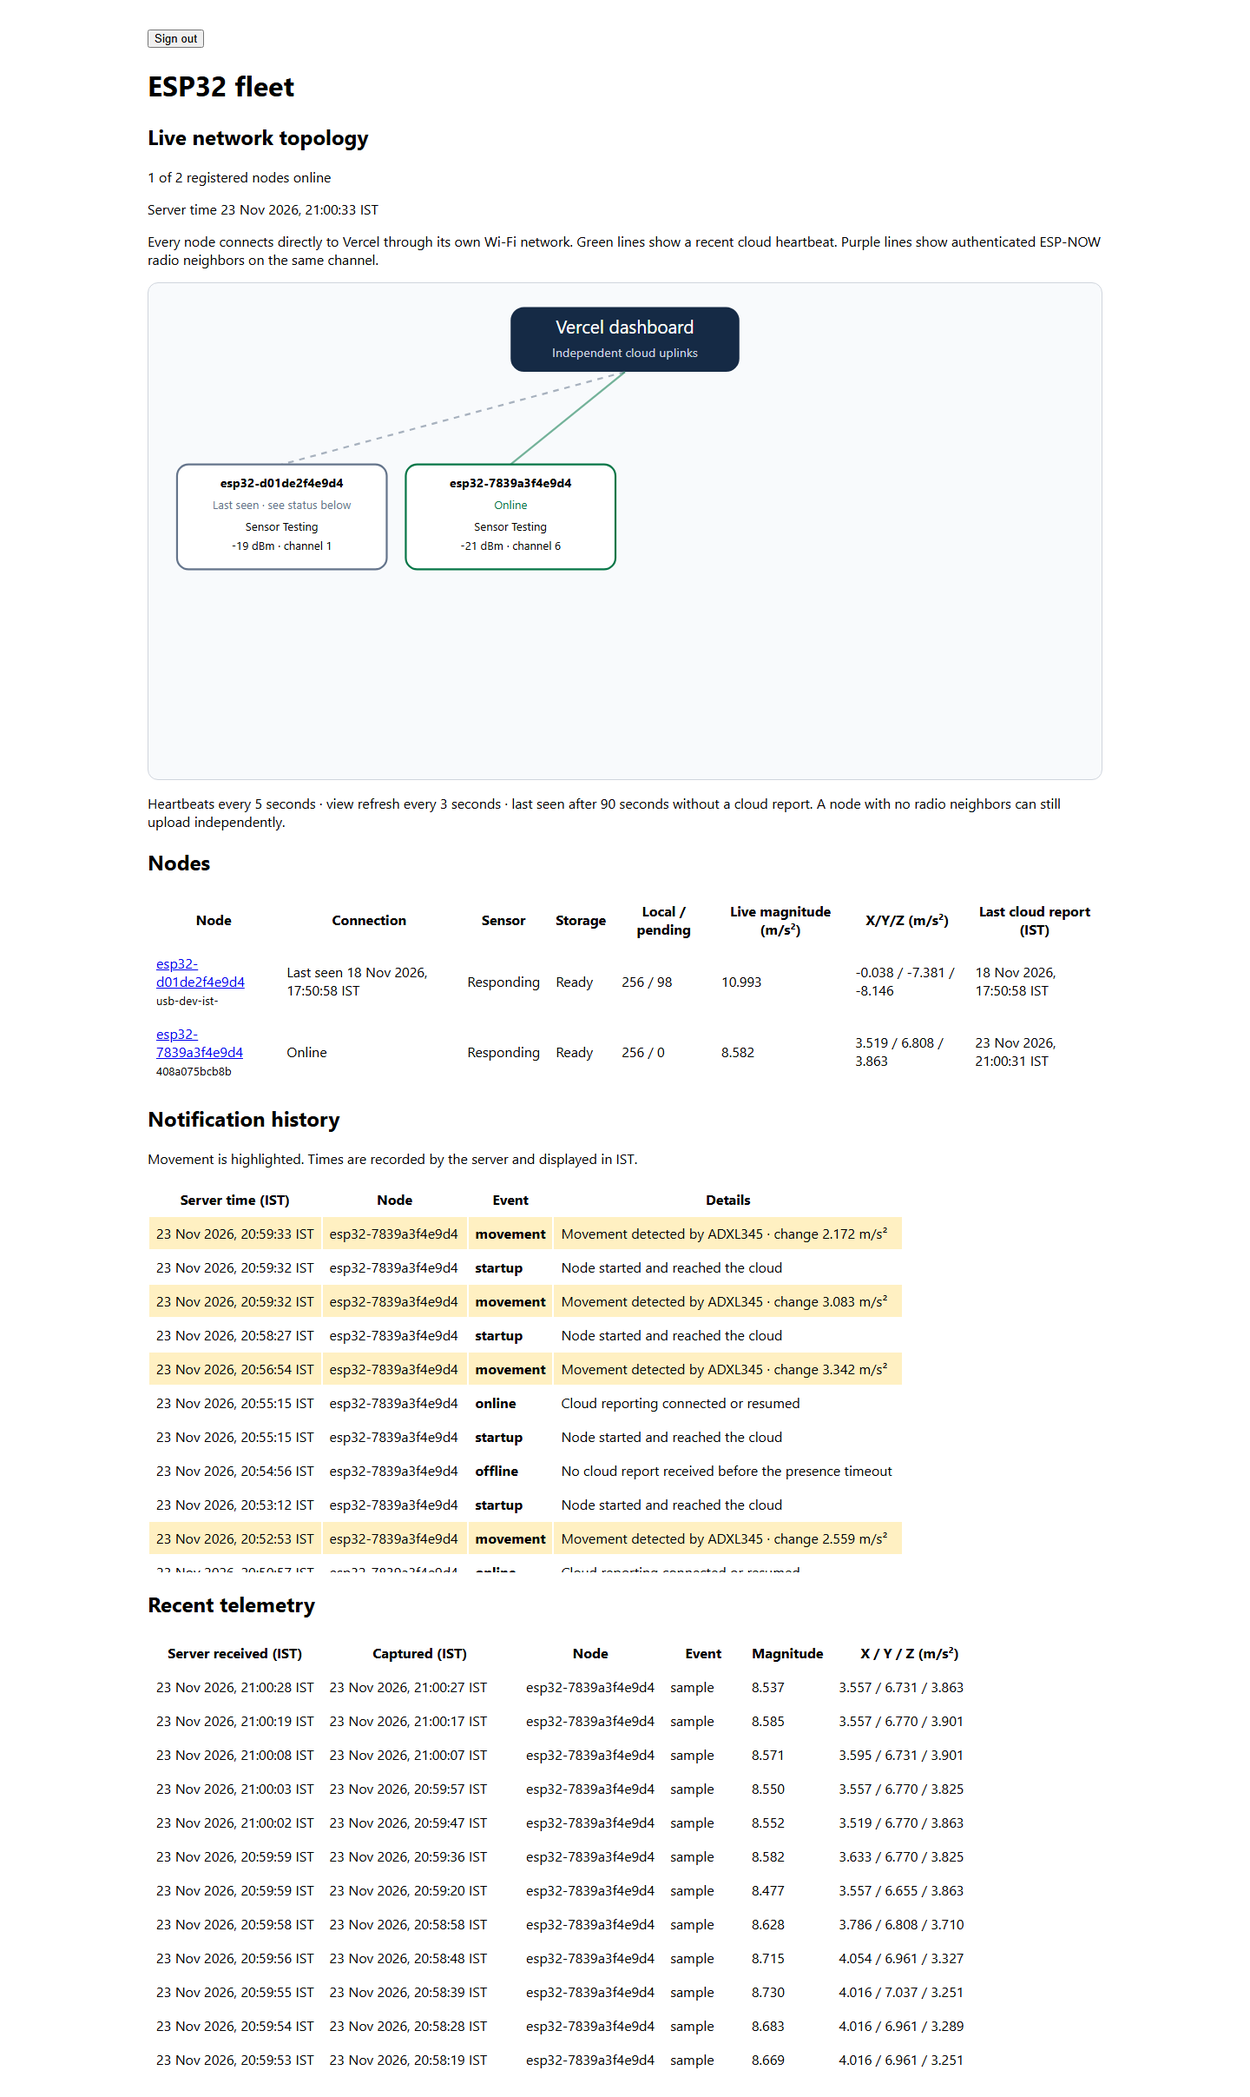
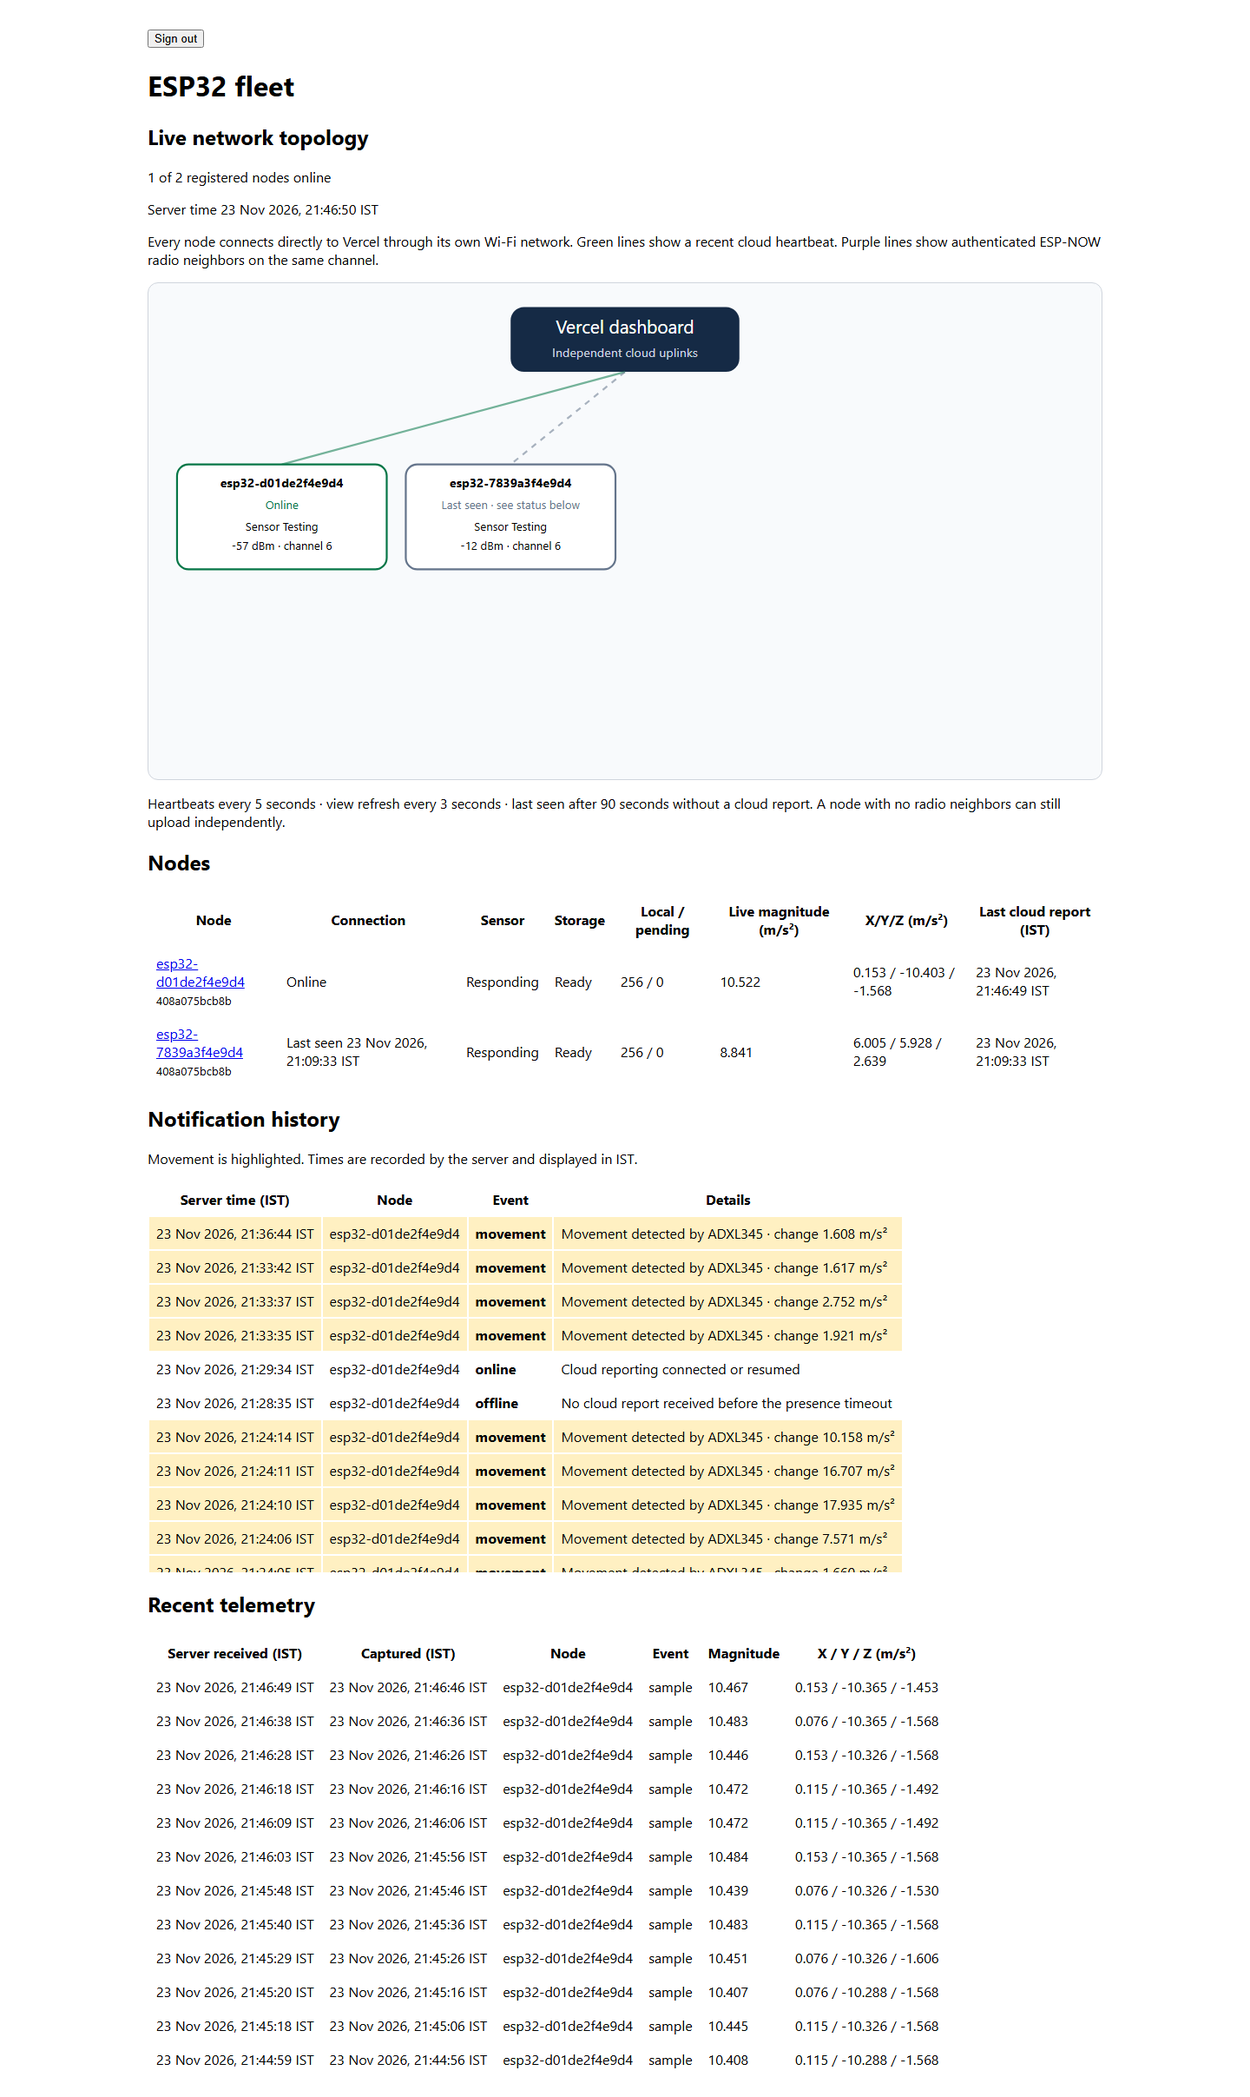
Record returning ESP32 upgrade, log integrity and movement acceptance

diff --git a/docs/VERIFICATION.md b/docs/VERIFICATION.md
@@ -4,6 +4,10 @@
 
 At approximately 21:00 IST, COM5 node `esp32-7839a3f4e9d4` was online on release `408a075bcb8b8eb4366a380ffc283637349bcc57`, installed remotely through the Vercel firmware origin. Pending boot was confirmed, sensor/storage were healthy, all 256 retained records were present, the upload queue was empty, IST matched host time, and setup AP was inactive. The authenticated dashboard showed fresh telemetry and movement notifications. The November 18 node retained its historical last-seen state. Detailed acceptance and earlier failures follow below.
 
+Later that evening, the operator returned `esp32-d01de2f4e9d4` to COM5. It received the same published release over USB, retained its existing identity/secret and 256 records, and resumed cloud reporting. All 256 migrated records passed validation with zero errors. The saved Vercel OTA channel returned the matching current version. The other board was unplugged and its Last-seen history remained available; the earlier 21:00 result above is a historical checkpoint, not a claim that both boards stayed powered.
+
+The returning board's physical tilt was verified in Atlas and the authenticated dashboard API: five movement records and their matching notifications were persisted. Its 21:39 dashboard snapshot showed 111 pending records still retrying. The backlog then fell to nine at 21:44 and zero by 21:45:30 IST. Atlas confirmed mode running, the exact release, healthy sensor/storage, synchronized time and 256 retained records at that final checkpoint.
+
 Calibration, multiple physical radio peers, controlled power cuts and failed-image rollback remain open. Successful OTA acceptance is verified; this is not a claim of full production acceptance.
 
 ## Recorded checks
@@ -176,3 +180,15 @@ Commit `408a075bcb8b8eb4366a380ffc283637349bcc57` passed [Actions run 4520512701
 The existing 256-record journal loaded at 20:59:27. Authenticated cloud reporting resumed and pending boot was confirmed at 20:59:50. Serial status at 21:00:15 reported the exact release, `pendingVerification=false`, zero pending records, healthy storage/sensor, saved Sensor Testing network, setup inactive, solid status LED, and `21:00:14 IST`. The authenticated production dashboard read at 21:00:33 confirmed the same version, mode running, zero backlog, fresh measurements, a new startup notification and movement notifications. The older node's historical last seen remained unchanged. No portal reopening, Wi-Fi re-entry or BOOT-button intervention was needed for this remote update.
 
 The deployed relay source is in `dpl_64bdeWVmQ81Mi8yuqqwbx6MiQ5Kq`; subsequent firmware/doc commits do not require rebuilding that unchanged route. New online nodes configured with its URL follow the Actions stable channel. Offline physical nodes have not been claimed as upgraded. The real dashboard screenshots were refreshed after acceptance; the real portal screenshot remains from the earlier controlled portal test.
+
+## Returning board on November 23
+
+The newly connected COM5 board was identified as the existing `esp32-d01de2f4e9d4`, MAC `d4:e9:f4:e2:1d:d0`, rather than a new identity. Pre-update serial showed the older bench firmware, live ADXL345, HTTP 200 cloud reporting, 256 records and 98 pending. Its settings/partition area was privately backed up and checked before using the public `408a075` binary with verified length/hash. The first USB write failed near 95%; the retry completed with hash verification. No filesystem upload, full-chip erase or BOOT intervention was used.
+
+The firmware migrated all 256 records at 21:17:07 IST. A persistent-configuration acknowledgment at 21:18:06 was followed by a normal reboot and a 256-record index with no migration needed. The integrity result at 21:19:05 was 256 valid, zero invalid, 29,355 ms elapsed. Authenticated production status at 21:18:52 showed the exact new release, healthy sensor/storage and synchronized time; older queued samples were being backfilled. At 21:21:07 the scheduled Vercel OTA check advertised the same version already running. The operator performed a fresh tilt, with local movement records at 21:23:45 onward. Production movement verification and latest backlog are appended below.
+
+Atlas read-only queries confirmed five movement events captured at 21:23:44, 21:23:46, 21:23:48, 21:23:50 and 21:24:02 IST, and five notifications linked by the same event IDs. Their server-received timestamps were 21:24:05.034 through 21:24:14.677 IST. Example `c648afa86be2443b56ef8b7471c6384b` had delta 17.9351 m/s² and the exact running release. This verifies the operator's movement test independently of browser automation.
+
+Direct Chromium navigation timed out at 30 and 60 seconds, while direct HTTP returned 200. Routing browser requests through Playwright's request client completed normal password login and a real dashboard API read. The 21:39:24 IST snapshot showed d01de2 online on `408a075`, sensor/storage healthy, synchronized time, live readings, matching movement notifications and 111 pending records. The unplugged 7839a3 node retained Last seen at 21:09:33 IST. Transport retries and new sampling continued; no records were deleted to hide the backlog. The documentation capture script now supports that optional HTTP transport and waits for DOM/UI readiness instead of global network idleness.
+
+The same node's pending count decreased to nine at 21:44:05 and zero at 21:45:30 IST, confirmed by a direct Atlas node-state query. No pending data was discarded and the sampling interval remained ten seconds. Final screenshots were refreshed after queue recovery. This verifies this observed recovery, not a sustained-throughput guarantee for every network or sampling rate.

diff --git a/docs/NODE-COM5.md b/docs/NODE-COM5.md
@@ -1,6 +1,20 @@
 # Commissioning record for COM5
 
-This is the November 18 historical record for `esp32-d01de2f4e9d4`. On November 23, COM5 was connected to a different board, `esp32-7839a3f4e9d4`. A COM port is not a device identity. See [the newer commissioning record](NODE-7839A3.md).
+This record covers the November 18 commissioning and November 23 return of `esp32-d01de2f4e9d4`. Earlier on November 23, COM5 held a different board, `esp32-7839a3f4e9d4`; later the operator swapped it back to this board. A COM port is not a device identity. See [the other board record](NODE-7839A3.md).
+
+## November 23 return and upgrade
+
+The board returned on COM5 running `usb-dev-ist-motion`, already connected to Sensor Testing and sending HTTP 200 with 256 local records and 98 pending. Its existing registration and individual API secret were retained. It was not registered as a third node.
+
[1 lines of base64/hex data omitted]
+
+USB bootstrap wrote only the application at `0x10000` and the standard app0 boot-selection data at `0xe000`; NVS, bootloader, partition table and LittleFS were not erased or rewritten. The first attempt stopped near 95% with “chip stopped responding.” A retry at 115200 baud completed and verified hashes without requiring BOOT.
+
+At 21:17:07 IST all 256 legacy records had migrated into the eight-directory layout without formatting. The device resumed authenticated telemetry/heartbeat reporting. It acknowledged permanent configuration at 21:18:06 and rebooted, retaining Sensor Testing and its original individual secret. Its OTA manifest is now `https://esp32-fleet-iot-project3.vercel.app/v1/firmware`; its setup SSID is `ESP32-Setup-d01de2f4e9d4`, using the saved private AP password.
+
+A read-only check at 21:19:05 validated all 256 retained records with zero invalid records in 29,355 ms. At 21:21:07 an automatic OTA check fetched the Vercel manifest and confirmed advertised/running versions were both `408a075`, without another image installation. The operator's subsequent tilt produced fresh local movement records. Cloud acceptance and backlog state are recorded in [verification](VERIFICATION.md). Older queued samples retain their original captured timestamps; server-received times identify later backfill uploads.
+
+The physical tilt was verified end to end: Atlas contained five matching movement events captured between 21:23:44 and 21:24:02 IST, with corresponding notifications received between 21:24:05 and 21:24:14. For example, event `c648afa86be2443b56ef8b7471c6384b` was captured at 21:23:48 and received at 21:24:10, with movement delta 17.9351 m/s². The authenticated dashboard API returned those notifications, current sensor readings and release `408a075`. Its 21:39 snapshot showed 111 pending records; these decreased to nine at 21:44 and zero by 21:45:30 IST. Atlas confirmed online reporting, healthy sensor/storage, synchronized time and 256 retained records at the final checkpoint. Intermittent transport timeouts had retried while committed data stayed local. The other board was unplugged and retained Last-seen history.
 
 ## Hardware identity and wiring
 
@@ -109,9 +123,9 @@ Sensitivity scales only the summary magnitude. It is not a per-axis calibration.
 
 The registered node connected to Sensor Testing, sent successful 200 heartbeats, and appeared in the live graph with a direct Vercel uplink. The Atlas-backed view preserved its X/Y/Z readings. Replaying a recorded event returned 200 without increasing the event count. An unsigned topology request returned 401.
 
-Only one physical ESP32 has been connected for these checks. Multi-node neighbor discovery still needs additional boards on the same radio channel. The current system provides independent uplinks and authenticated neighbor sightings. Multi-hop data forwarding is outside the implemented behavior.
+At the original November 18 checkpoint, only this physical ESP32 had been tested. By November 23, both registered boards had been tested individually. Simultaneous multi-node neighbor discovery still needs additional powered boards on the same radio channel. The current system provides independent uplinks and authenticated neighbor sightings. Multi-hop data forwarding is outside the implemented behavior.
 
-## OTA installed on this board
+## Historical OTA installed on this board
 
 The physical node successfully downloaded, verified, and booted GitHub release `7f9ae6336ce4fc26ab20ef4d680910cf4e18ab63`. The image size was 1,150,416 bytes. Following reboot, serial identified the same Node ID and ADXL345, sampling resumed, and Vercel acknowledged the heartbeat with 200.
 

diff --git a/README.md b/README.md
@@ -4,14 +4,14 @@ An ESP32 connects to Wi-Fi, records telemetry locally, uploads it over HTTPS, an
 
 The hardware target is a **classic ESP32 DevKit with 4 MB flash** and an ADXL345 connected over I²C. X/Y/Z acceleration is reported in m/s², and the summary value is acceleration magnitude multiplied by sensitivity. GPIO 4 remains the capacitive setup input.
 
-The November 23 node retains its settings across reboots, reports independently to Atlas, and appears in the live IST dashboard. Captive-portal saving, 30 recent local records, and a complete 256-record download have been verified on hardware. See the [verification record](docs/VERIFICATION.md) for release status and remaining hardware acceptance checks.
+Both registered boards have been updated to release `408a075`, retaining their separate identities and settings. Online/Last-seen reflects each board's actual reporting. Captive-portal saving, 30 recent local records, and a complete 256-record download were verified on `esp32-7839a3f4e9d4`. See the [verification record](docs/VERIFICATION.md) for release status and remaining hardware acceptance checks.
 
 ## Connected node and wiring
 
 | Item | Value |
 | --- | --- |
-| Current COM5 Node ID | `esp32-7839a3f4e9d4` (November 23 board) |
-| Previous Node ID | `esp32-d01de2f4e9d4` (November 18 board, history retained) |
+| Current COM5 Node ID | `esp32-d01de2f4e9d4` (November 18 board, returned November 23) |
+| Other configured Node ID | `esp32-7839a3f4e9d4` (separate identity and history retained) |
 | USB port | COM5 |
 | Chip | ESP32-D0WD-V3 revision 3.1 |
 | ADXL345 SDA | GPIO 21 |
@@ -23,7 +23,7 @@ The November 23 node retains its settings across reboots, reports independently 
 | Commissioning sample interval | 10 seconds |
 | Sensor mode | Full-resolution ±16 g, 100 Hz ODR |
 
-See the [current board record](docs/NODE-7839A3.md), [historical COM5 procedure](docs/NODE-COM5.md), and [operating manual](docs/OPERATING_MANUAL.md) for USB upload commands, Arduino IDE export, settings, diagnostics, and sensor-calibration limits. Passwords and node secrets remain private. Each ESP32's SSID and password can be changed in its captive portal.
+See the [current board record and COM5 procedure](docs/NODE-COM5.md), [other board record](docs/NODE-7839A3.md), and [operating manual](docs/OPERATING_MANUAL.md) for USB upload commands, Arduino IDE export, settings, diagnostics, and sensor-calibration limits. Passwords and node secrets remain private. Each ESP32's SSID and password can be changed in its captive portal. Identify boards by Node ID/MAC; COM5 can be reused by different boards.
 
 The live dashboard shows each node's direct cloud uplink and authenticated ESP-NOW neighbor sightings. Every node independently uploads through its configured Wi-Fi network. A dedicated task reports every five seconds while upload and OTA work run separately. The graph refreshes every three seconds and shows Online or Last seen in IST from accepted server reports. See [topology](docs/TOPOLOGY.md).
 
@@ -218,3 +218,5 @@ OTA can follow GitHub directly or use the Vercel manifest at `https://esp32-flee
 The ADXL345 firmware has been built and flashed on the connected COM5 board. Sensor identity, live reads, Wi-Fi, and persistent local storage were exercised. Calibration, multiple-node radio behavior, controlled power cuts, and failed-image rollback still need targeted bench checks. See the [verification record](docs/VERIFICATION.md).
 
 On November 23, 2026, node `esp32-7839a3f4e9d4` installed release `408a075` remotely through Vercel, verified and rebooted successfully, retained 256 records, and resumed reporting with zero backlog. The 1,224,352-byte binary transfer took 41 seconds. Its Wi-Fi and OTA settings remained saved; setup AP was inactive. The dashboard confirmed the new version, online status, IST telemetry and movement notifications.
+
+Later that evening, `esp32-d01de2f4e9d4` returned on COM5 and received the same checksum-verified release over USB. All 256 existing records migrated without formatting and passed a read-only integrity check with zero invalid records. Its original Node ID/secret were retained, and its saved Vercel OTA channel was checked successfully. The operator's tilt produced five verified cloud movement notifications. Its historical backlog finished uploading, reaching zero pending records by 21:45:30 IST.

diff --git a/docs/images/README.md b/docs/images/README.md
@@ -3,9 +3,9 @@
 | File | Source |
 | --- | --- |
 | `dashboard-login.png` | Live deployed application sign-in on November 23, 2026 |
-| `dashboard-nodes.png` | Live authenticated dashboard after the November 23 OTA acceptance |
-| `dashboard-topology.png` | Live topology with the current node online and older node last seen |
-| `dashboard-ist-history.png` | Live IST telemetry and movement history on verified release 408a075 |
+| `dashboard-nodes.png` | Live authenticated dashboard after the returning d01de2 board's November 23 upgrade |
+| `dashboard-topology.png` | Live topology with d01de2 online and the unplugged 7839a3 board last seen |
+| `dashboard-ist-history.png` | Live IST telemetry and movement history with the returning board on release 408a075 |
 | `dashboard-offline.png` | Physical node offline after its cloud uplink was paused in setup mode |
 | `provisioning-reference.png` | Actual `PortalPage` HTML extracted from firmware, rendered with sample settings |
 | `portal-live.png` | Real November 23 node, live settings/status/recent logs, password fields left blank |
@@ -24,6 +24,8 @@ node scripts/capture-docs.cjs
 ```
 
 The script reads the local ignored `dashboard/.env.local` for its dashboard password. It never writes the value into screenshot content or console output. Keep that local file private.
+
+If Chromium navigation times out while direct HTTP requests succeed, use `$env:DOCS_HTTP_TRANSPORT='api'` before capture. This optional transport forwards real same-origin requests through Playwright's request client; the normal password login, session and live API still apply. It does not inject sample dashboard data or bypass authentication. Navigation waits for DOM readiness and relevant UI elements instead of waiting for all network activity to stop during polling.
 
 For a protected deployment, obtain an authorized temporary Vercel share link and place it in an ignored JSON file such as `work/capture-access.json`:
 

diff --git a/docs/OPERATING_MANUAL.md b/docs/OPERATING_MANUAL.md
@@ -151,6 +151,10 @@ node -e "console.log(require('node:crypto').randomBytes(32).toString('hex'))"
 
 Store the generated value privately. Use the exact lowercase Node ID. A replacement board receives a different ID. Do not copy the old board's identity or share its individual API secret.
 
+### Returning an existing board
+
+Read its hardware Node ID/MAC before provisioning. A reused COM port does not imply a new device. If the ID is already registered, keep its identity, API secret and cloud history. Check the installed version, sensor, Wi-Fi, local-record count and pending count. Back up settings and logs where possible, verify the compatible partition layout and release checksum, and perform an application recovery update without `uploadfs` or full-chip erase. Set the saved OTA channel and confirm the device's save acknowledgment/reboot. Check migrated records, authenticated heartbeat/telemetry, live time, sensor health and a new movement notification. Historical pending records can continue retrying after the board comes online; Online does not mean its queue is empty. Record the remaining backlog explicitly.
+
 ## 11. Rotate a node API secret
 
 1. Generate and privately store a new secret.

diff --git a/docs/NODE-7839A3.md b/docs/NODE-7839A3.md
@@ -1,5 +1,7 @@
 # November 23 COM5 node
 
+This board was connected earlier on November 23. The operator subsequently unplugged it and returned `esp32-d01de2f4e9d4` to COM5; see [its update record](NODE-COM5.md). This board's identity, saved configuration and cloud history remain separate. The checks below describe its own verified session.
+
 | Item | Value |
 | --- | --- |
 | Hardware-derived Node ID | `esp32-7839a3f4e9d4` |
